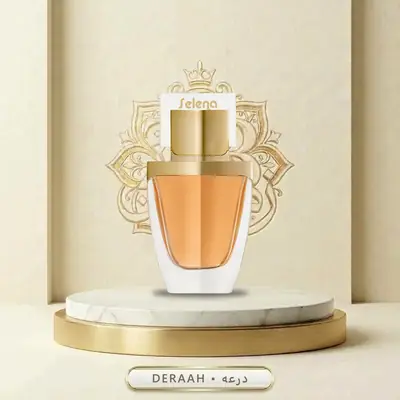
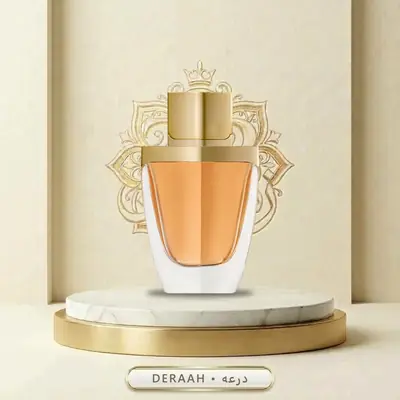
Clear glass caps, cards behind caps, white tops removed
- New cutoutClearGlass flag: clear caps shot on white came out as solid
  white blocks; now see-through like glass (Al-Rehab Classic 30/60/100,
  Tiara 100/150, Drop Water, Blue Ocean, Shahra 90 x2)
- New cutoutRemoveCardRect flag removes the card behind Selena's cap;
  Dream Gold's card removed with cutoutRemoveCard
- Wood: white dome above the gold cap gone (full model); Florid re-cut

Claude-Session: https://claude.ai/code/session_01STVvvRzREoL5Wd8ZBCeqVE

Changed region(s): [[0.33, 0.21, 0.66, 0.69], [0.57, 0.69, 0.63, 0.75], [0.36, 0.72, 0.42, 0.75]]

diff --git a/tools/images/render.py b/tools/images/render.py
@@ -276,7 +276,7 @@ def keep_largest(alpha):
 
 def cutout(img, mirror=False, solid=False, mirror_fill_=False, body_clip=None, largest=False,
            trim_bottom=None, trim_top=None, straight_left=False, model=None,
-           cap_clip=None, white_backdrop=False):
+           cap_clip=None, white_backdrop=False, clear_glass=False):
     from rembg import remove
     img.thumbnail((1200, 1200), Image.LANCZOS)
     rgb = flatten(img)
@@ -344,6 +344,19 @@ def cutout(img, mirror=False, solid=False, mirror_fill_=False, body_clip=None, l
         rows = np.where(alpha.max(axis=1) > 64)[0]
         if len(rows):
             alpha[rows[-1] - int((rows[-1] - rows[0]) * trim_bottom):] = 0
+    if clear_glass:
+        # Clear glass shot on white shows as flat white; make those pixels
+        # see-through so the template shows behind like real glass. Only
+        # the bottle's top third (the cap), where such parts sit.
+        src = np.asarray(rgb, dtype=np.float32)
+        rows = np.where(alpha.max(axis=1) > 64)[0]
+        if len(rows):
+            y = rows[0] + int((rows[-1] - rows[0]) * 0.4)
+            sat = src.max(axis=2) - src.min(axis=2)
+            white = np.clip((src.min(axis=2) - 222) / 28, 0, 1) * (sat < 14)
+            white = ndimage.gaussian_filter(white, 1.5)
+            white[y:] = 0
+            alpha = alpha * (1 - 0.8 * white)
     cut.putalpha(Image.fromarray(alpha.clip(0, 255).astype(np.uint8)))
     cut = defringe(cut)
     return cut.crop(cut.getbbox()), {"reflectionRemoved": line is not None, **cut_metrics(alpha)}
@@ -412,6 +425,33 @@ def remove_card(img, top, bottom):
     return Image.fromarray(arr.clip(0, 255).astype(np.uint8))
 
 
+def remove_card_rect(img, top, bottom):
+    """Whiten a white card standing behind a coloured box-shaped cap.
+
+    The cap's columns come from the rows just below the card; inside the
+    card rows the cap starts at the first row where those columns turn
+    coloured (gold, silver tint). Everything else there becomes backdrop.
+    """
+    arr = np.asarray(flatten(img), dtype=np.float32).copy()
+    h, w = arr.shape[:2]
+    y0, y1 = int(top * h), int(bottom * h)
+    solid = arr.min(axis=2) < 240
+    below = solid[y1 + 2:y1 + 12]
+    cols = np.nonzero(below.mean(axis=0) > 0.8)[0]
+    if not len(cols):
+        return Image.fromarray(arr.astype(np.uint8))
+    x0, x1 = cols.min(), cols.max()
+    sat = arr.max(axis=2) - arr.min(axis=2)
+    coloured = (sat[y0:y1, x0:x1 + 1] > 30).mean(axis=1) > 0.5
+    start = y0 + (int(np.argmax(coloured)) if coloured.any() else y1 - y0)
+    keep = np.zeros((h, w), bool)
+    keep[start:y1, x0:x1 + 1] = True
+    region = np.zeros((h, w), bool)
+    region[y0:y1] = True
+    arr[region & ~keep] = 255
+    return Image.fromarray(arr.clip(0, 255).astype(np.uint8))
+
+
 def showcase(item, house):
     src = fetch(source_url(item))
     if item.get("cutoutCrop"):
@@ -419,6 +459,8 @@ def showcase(item, house):
         # photo also shows its box.
         l, t, r, b = item["cutoutCrop"]
         src = src.crop((round(l * src.width), round(t * src.height), round(r * src.width), round(b * src.height)))
+    if item.get("cutoutRemoveCardRect"):
+        src = remove_card_rect(src, *item["cutoutRemoveCardRect"])
     if item.get("cutoutRemoveCard"):
         src = remove_card(src, *item["cutoutRemoveCard"])
     cut, info = cutout(src, mirror=(house == "ghalati" and needs_mirror_clip(item)) or bool(item.get("cutoutMirrorClip")),
@@ -431,7 +473,8 @@ def showcase(item, house):
                        straight_left=bool(item.get("cutoutStraightLeft")),
                        model=item.get("cutoutModel"),
                        cap_clip=item.get("cutoutCapClip"),
-                       white_backdrop=bool(item.get("cutoutWhiteBackdrop")))
+                       white_backdrop=bool(item.get("cutoutWhiteBackdrop")),
+                       clear_glass=bool(item.get("cutoutClearGlass")))
     bg = Image.open(IMAGES / HOUSES[house][2]).convert("RGBA").resize((SIZE, SIZE), Image.LANCZOS)
     scale = min(BOTTLE_BOX[0] / cut.width, BOTTLE_BOX[1] / cut.height)
     cut = cut.resize((max(1, round(cut.width * scale)), max(1, round(cut.height * scale))), Image.LANCZOS)

diff --git a/tools/images/README.md b/tools/images/README.md
@@ -37,6 +37,8 @@ Some photos need a hint in the catalog entry before rendering:
 - `cutoutCapClip: 0.12` keeps only the cap width above that fraction of the height (drops a card standing behind the cap).
 - `cutoutRemoveCard: [top, bottom]` whitens a message card standing behind an egg-shaped cap (rows as fractions of the photo height); the cap outline there is extrapolated from below the card.
 - `cutoutWhiteBackdrop: true` for studio shots on pure white: every non-white pixel joins the bottle, so frosted or white parts the model drops are kept.
+- `cutoutClearGlass: true` makes flat-white clear glass in the cap area see-through (clear caps shot on white).
+- `cutoutRemoveCardRect: [top, bottom]` whitens a card behind a box-shaped cap.
 - `cutoutCrop: [l, t, r, b]` crops the source photo (fractions) before the cutout, e.g. to leave out the box next to a bottle.
 
 After rendering, run `python tools/images/thumbs.py` to refresh the card thumbnails. Image URLs carry `?v=<content hash>` so browsers never show a cached older picture; `python tools/images/versions.py` re-syncs them after manual image edits.
